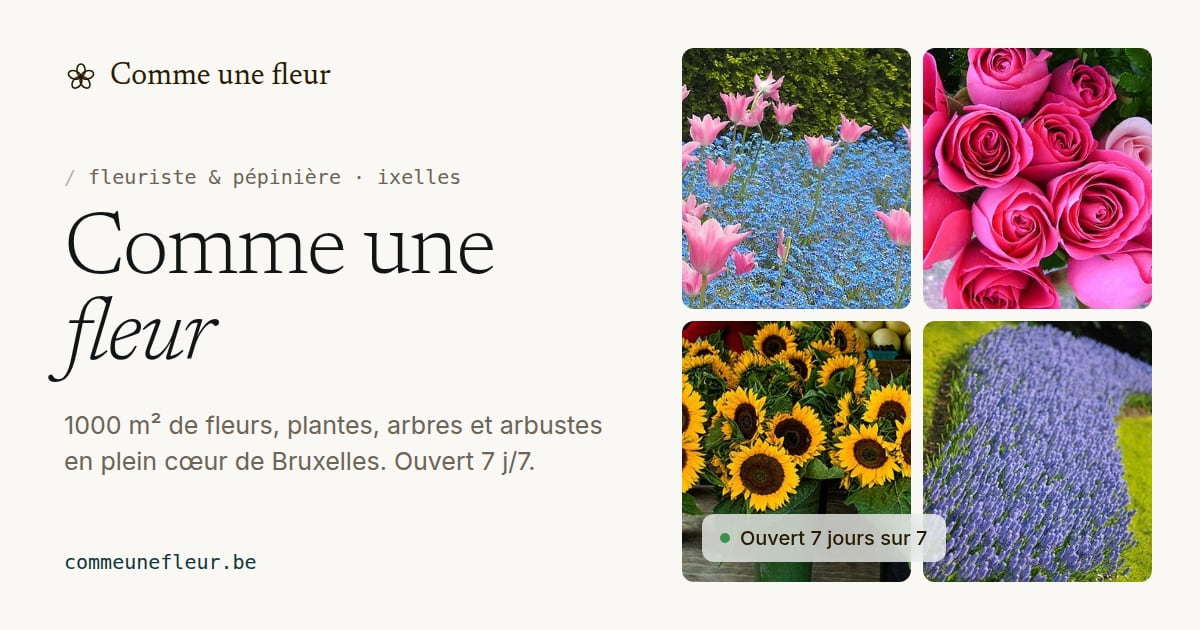
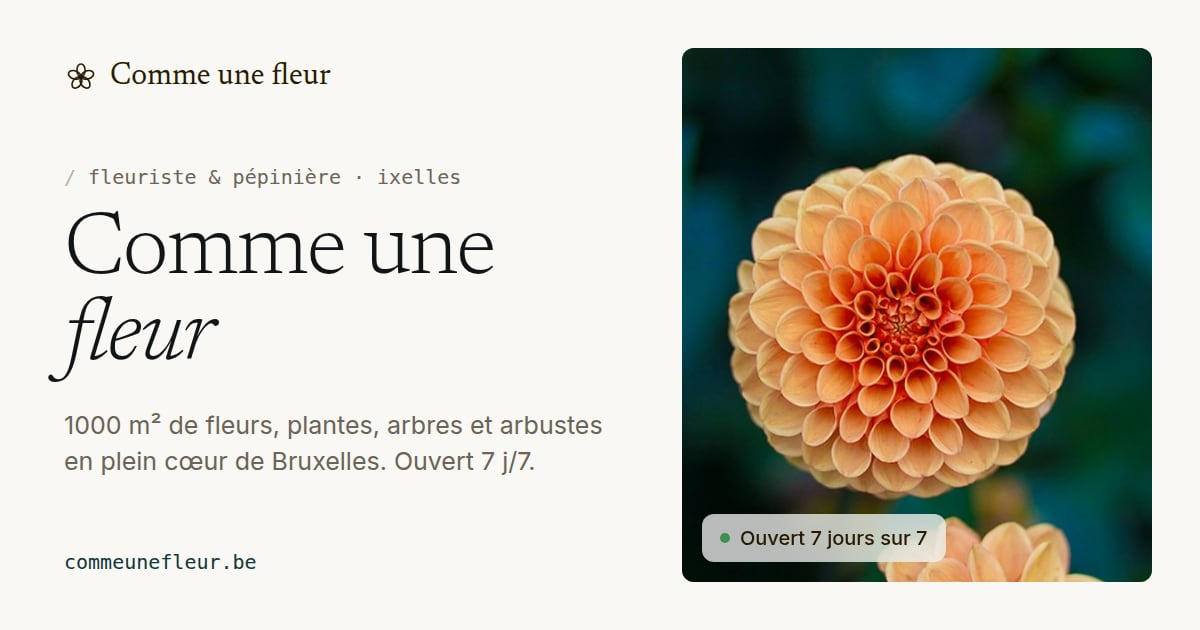
Accueil : dahlia pêche en fond plein écran
- Fond de l'accueil : un dahlia pêche sur feuillage (photo CC BY 2.0,
  vultilion), agrandi pour le plein écran, avec le halo clair derrière le
  titre et la carte d'infos pratiques en bas.
- La photo choisie à la main (« hero ») passe en plein écran quelle que
  soit sa taille ; l'import ne choisit seul qu'une photo d'au moins
  1600 px ; sans photo de fond, l'accueil garde la mosaïque.
- Téléphone : la carte d'infos pratiques suit le texte et ne recouvre
  plus le bouton « Voir les photos ».
- Image de partage de l'accueil : le dahlia ; crédit ajouté à la liste.

diff --git a/frontend/src/lib/photos.js b/frontend/src/lib/photos.js
@@ -26,13 +26,12 @@ export function coverFor(category) {
   return list.find((p) => p.featured) ?? list[0] ?? photos.find((p) => p.cover?.includes(category)) ?? null;
 }
 
-// Accueil : une photo plein écran seulement si elle est assez grande pour rester nette sur grand écran.
-// Sinon, une mosaïque de photos affichées près de leur taille réelle (donc nettes).
+// Accueil : la photo choisie à la main (« hero ») en plein écran ; à défaut, une photo assez grande
+// pour rester nette sur grand écran ; sinon, une mosaïque de photos affichées près de leur taille réelle.
 const HERO_MIN_WIDTH = 1600;
 const isWide = (p) => p.asset.width >= HERO_MIN_WIDTH && p.asset.width >= p.asset.height * 1.2;
 
-export const heroPhoto =
-  photos.find((p) => p.hero && p.asset.width >= HERO_MIN_WIDTH) ?? photos.find((p) => isWide(p)) ?? null;
+export const heroPhoto = photos.find((p) => p.hero) ?? photos.find((p) => isWide(p)) ?? null;
 
 export const MOSAIC_SIZE = 10;
 

diff --git a/README.md b/README.md
@@ -36,16 +36,17 @@ puis déclinée au build en **AVIF et WebP** à plusieurs tailles. Textes altern
 photo d’accueil et photos mises en avant se règlent dans `frontend/src/data/photos.json`
 (mode d’emploi : `frontend/src/assets/photos/README.md`).
 
-En attendant, le site montre **33 photos de fleurs d’illustration** sous licence libre (CC BY 2.0,
-auteurs crédités dans la galerie et dans les conditions d’utilisation). Elles sont retirées
-automatiquement dès que les vraies photos sont importées. L’accueil affiche une grande photo plein écran
-si l’une d’elles fait au moins 1600 px de large, sinon une mosaïque de photos : jamais d’image étirée ni floue.
+En attendant, le site montre **34 photos de fleurs d’illustration** sous licence libre (CC BY 2.0,
+auteurs crédités dans la galerie et dans les conditions d’utilisation), dont un dahlia pêche en fond
+de l’accueil. Elles sont retirées automatiquement dès que les vraies photos sont importées.
+L’accueil affiche en plein écran la photo marquée `hero` (ou, à défaut, une photo d’au moins 1600 px
+de large), sinon une mosaïque de photos.
 
 ## Ce qui est inclus
 
 | Demande | Réalisation |
 |---|---|
-| Page d’accueil avec toutes les photos | Mosaïque de photos nettes en ouverture, puis galerie complète sur l’accueil (`/#galerie`) : filtres par thème, « afficher plus », visionneuse plein écran (clavier, glisser du doigt) |
+| Page d’accueil avec toutes les photos | Grande photo de fond en ouverture (ou mosaïque de photos), puis galerie complète sur l’accueil (`/#galerie`) : filtres par thème, « afficher plus », visionneuse plein écran (clavier, glisser du doigt) |
 | Vraies offres | Fleurs & bouquets, plantes, pépinière, événements, entretien, sapins de Noël, 2 adresses, horaires, histoire depuis 2002 (sources en bas de page) |
 | Animations utiles, pas décoratives | Titre qui apparaît dans l’ordre de lecture · photos de l’accueil qui arrivent une à une · statut « Ouvert / Fermé » en direct · menu qui se replie en capsule au défilement · blocs qui apparaissent au rythme de la lecture · filtres de galerie qui glissent vers leur place · zoom de la vignette vers la visionneuse · frise de l’histoire qui se dessine · erreurs de formulaire qui apparaissent sous le champ · fleur qui s’ouvre quand le message est parti · compte à rebours visible sur la page 404 · transitions douces entre les pages. Tout est coupé si l’appareil demande « réduire les animations ». |
 | Site aéré | Marges de 96 à 184 px entre sections, largeur de lecture limitée, peu d’éléments par ligne |

diff --git a/frontend/src/assets/photos/README.md b/frontend/src/assets/photos/README.md
@@ -17,8 +17,8 @@ se règlent ensuite dans `src/data/photos.json` :
 | `alt`      | description lue par les lecteurs d'écran et Google (à relire !)      |
 | `category` | `fleurs`, `plantes`, `pepiniere`, `evenements`, `entretien`, `sapins`, `boutique` |
 | `featured` | `true` = photo de couverture de sa catégorie (cartes « Nos offres ») |
-| `hero`     | `true` = photo plein écran de l'accueil (nette ; au moins 1600 px de large) |
-| `mosaic`   | `1`, `2`, `3`… = place dans la mosaïque de l'accueil (quand aucune photo n'est assez grande pour le plein écran) |
+| `hero`     | `true` = photo de fond plein écran de l'accueil (idéalement au moins 1600 px de large ; l'import ne la choisit tout seul que dans ce cas) |
+| `mosaic`   | `1`, `2`, `3`… = place dans la mosaïque de l'accueil (utilisée quand aucune photo de fond n'est choisie) |
 | `cover`    | `["sapins"]` = sert aussi de couverture à une offre qui n'a pas encore de photo |
 | `hidden`   | `true` = photo gardée mais non affichée                              |
 | `focus`    | `top`, `bottom`, `left`, `right` : cadrage des vignettes             |
@@ -30,4 +30,5 @@ Au build, chaque photo est déclinée en AVIF et WebP, en plusieurs largeurs.
 En attendant les photos de la boutique, le dossier contient des photos de fleurs **sous licence libre
 (CC BY 2.0)**, marquées `"illustration": true` et créditées (`credit` : auteur, lien, licence). Leurs auteurs
 sont cités dans la galerie (visionneuse) et dans les conditions d'utilisation (« Crédits photos »).
+Le fond de l'accueil est l'une d'elles : un dahlia pêche (`"hero": true`).
 Elles sont **retirées automatiquement** dès que les vraies photos sont importées.
